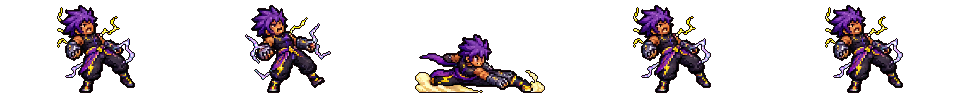
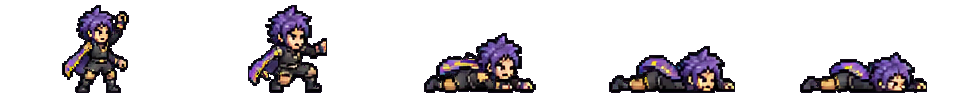
feat(ryne): rework electro striker assets

diff --git a/scripts/assets/rebuild_ryne_character_with_pillow.py b/scripts/assets/rebuild_ryne_character_with_pillow.py
@@ -1,0 +1,242 @@
+#!/usr/bin/env python3
+from __future__ import annotations
+
+import re
+from pathlib import Path
+
+from PIL import Image, ImageChops, ImageFilter
+
+
+ROOT = Path(__file__).resolve().parents[2]
+RYNE_DIR = ROOT / "assets/characters/ryne"
+
+IMAGEGEN_SOURCE = RYNE_DIR / "generated_source/ryne_imagegen_source_chromakey.png"
+CHROMAKEY_SOURCE = RYNE_DIR / "generated_source/ryne_rework_source_chromakey.png"
+ALPHA_SOURCE = RYNE_DIR / "generated_source/ryne_rework_source_alpha_pillow.png"
+PREVIEW = RYNE_DIR / "generated_source/ryne_rework_preview.png"
+WORK_DIR = ROOT / "tmp/asset_generation/ryne_clean/pillow_frames"
+
+SOURCE_SIZE = (1536, 1024)
+FRAME_WIDTH = 192
+FRAME_HEIGHT = 96
+CONTENT_HEIGHT = 92
+OUTLINE = (18, 12, 26, 255)
+
+FRAME_SPECS = {
+    "idle_0": ("72x120+54+20", "x86"),
+    "idle_1": ("74x120+164+19", "x86"),
+    "idle_2": ("75x120+273+20", "x86"),
+    "idle_3": ("75x120+381+20", "x86"),
+    "run_0": ("100x104+39+155", "x86"),
+    "run_1": ("96x104+198+154", "x86"),
+    "run_2": ("104x103+356+155", "x86"),
+    "run_3": ("110x103+498+156", "x86"),
+    "run_4": ("112x103+646+156", "x86"),
+    "run_5": ("122x103+790+156", "x86"),
+    "attack_0": ("67x119+499+20", "x86"),
+    "attack_1": ("122x106+618+33", "x86"),
+    "attack_2": ("122x106+752+33", "x86"),
+    "attack_3": ("133x106+905+33", "x86"),
+    "attack_4": ("104x106+1095+33", "x86"),
+    "attack_5": ("124x106+1275+33", "x86"),
+    "jump_0": ("77x101+60+283", "x86"),
+    "jump_1": ("112x115+230+268", "x86"),
+    "jump_2": ("115x110+397+270", "x86"),
+    "dodge_0": ("156x65+48+414", "128x60>"),
+    "dodge_1": ("151x63+216+415", "128x60>"),
+    "dodge_2": ("127x67+408+411", "128x60>"),
+    "dodge_3": ("137x60+590+418", "128x58>"),
+    "hurt_0": ("90x116+54+496", "x86"),
+    "hurt_1": ("90x110+202+502", "x86"),
+    "throw_0": ("83x113+51+625", "x86"),
+    "throw_1": ("98x108+171+634", "x86"),
+    "throw_2": ("140x109+305+634", "176x82>"),
+    "skill_0": ("88x113+56+755", "x86"),
+    "skill_1": ("86x126+212+753", "x86"),
+    "skill_2": ("172x138+756+748", "184x84>"),
+    "death_0": ("84x112+48+884", "x86"),
+    "death_1": ("81x90+186+906", "x86"),
+    "death_2": ("114x63+312+933", "128x60>"),
+    "death_3": ("128x49+470+947", "128x48>"),
+    "death_4": ("125x39+637+957", "128x40>"),
+}
+
+STRIPS = {
+    "idle": ["idle_0", "idle_1", "idle_2", "idle_3"],
+    "run": ["run_0", "run_1", "run_2", "run_3", "run_4", "run_5"],
+    "attack": ["attack_0", "attack_1", "attack_2", "attack_3", "attack_4", "attack_5"] * 2,
+    "jump": ["jump_0", "jump_1", "jump_2"],
+    "dodge": ["dodge_0", "dodge_1", "dodge_2", "dodge_3"],
+    "hurt": ["hurt_0", "hurt_1"],
+    "throw": ["throw_0", "throw_1", "throw_2", "throw_2", "throw_1", "throw_0", "throw_2", "throw_1"],
+    "skill": ["skill_0", "skill_1", "skill_2", "skill_1"],
+    "death": ["death_0", "death_1", "death_2", "death_3", "death_4"],
+}
+
+
+def parse_box(box: str) -> tuple[int, int, int, int]:
+    match = re.fullmatch(r"(\d+)x(\d+)\+(\d+)\+(\d+)", box)
+    if not match:
+        raise ValueError(f"invalid crop box: {box}")
+    width, height, x, y = map(int, match.groups())
+    return x, y, x + width, y + height
+
+
+def parse_resize(spec: str) -> tuple[int | None, int | None, bool]:
+    limit = spec.endswith(">")
+    if limit:
+        spec = spec[:-1]
+    if spec.startswith("x"):
+        return None, int(spec[1:]), limit
+    if "x" in spec:
+        left, right = spec.split("x", 1)
+        return int(left) if left else None, int(right) if right else None, limit
+    return int(spec), None, limit
+
+
+def resize_to_fit(image: Image.Image, spec: str) -> Image.Image:
+    target_w, target_h, limit = parse_resize(spec)
+    source_w, source_h = image.size
+    if target_w is None and target_h is None:
+        return image
+    if target_w is None:
+        scale = target_h / source_h
+    elif target_h is None:
+        scale = target_w / source_w
+    else:
+        scale = min(target_w / source_w, target_h / source_h)
+    if limit and scale >= 1:
+        return image
+    size = (max(1, round(source_w * scale)), max(1, round(source_h * scale)))
+    return image.resize(size, Image.Resampling.NEAREST)
+
+
+def remove_green_key(image: Image.Image) -> Image.Image:
+    image = image.convert("RGBA")
+    pixels = image.load()
+    for y in range(image.height):
+        for x in range(image.width):
+            r, g, b, a = pixels[x, y]
+            if a == 0:
+                pixels[x, y] = (0, 0, 0, 0)
+                continue
+            if g > 80 and g > r * 1.08 and g > b * 1.08:
+                pixels[x, y] = (0, 0, 0, 0)
+            elif g > r * 1.05 and g > b * 1.05:
+                pixels[x, y] = (r, min(g, int(max(r, b) * 0.72)), b, a)
+    return image
+
+
+def trim(image: Image.Image) -> Image.Image:
+    bbox = image.getchannel("A").getbbox()
+    if bbox is None:
+        return Image.new("RGBA", (1, 1), (0, 0, 0, 0))
+    return image.crop(bbox)
+
+
+def constrain(image: Image.Image) -> Image.Image:
+    width, height = image.size
+    scale = min(184 / width, 88 / height, 1.0)
+    if scale >= 1:
+        return image
+    return image.resize((max(1, round(width * scale)), max(1, round(height * scale))), Image.Resampling.NEAREST)
+
+
+def add_outline(image: Image.Image) -> Image.Image:
+    alpha = image.getchannel("A")
+    dilated = alpha.filter(ImageFilter.MaxFilter(3))
+    outline_alpha = ImageChops.subtract(dilated, alpha)
+    outline = Image.new("RGBA", image.size, OUTLINE)
+    outline.putalpha(outline_alpha)
+    return Image.alpha_composite(outline, image)
+
+
+def clear_transparent_rgb(image: Image.Image) -> Image.Image:
+    image = image.convert("RGBA")
+    pixels = image.load()
+    for y in range(image.height):
+        for x in range(image.width):
+            r, g, b, a = pixels[x, y]
+            if a == 0:
+                pixels[x, y] = (0, 0, 0, 0)
+    return image
+
+
+def load_imagegen_source() -> Image.Image:
+    if not IMAGEGEN_SOURCE.exists():
+        raise FileNotFoundError(
+            f"Missing imagegen base sheet: {IMAGEGEN_SOURCE}. "
+            "Generate Ryne's full chromakey source sheet with $imagegen first."
+        )
+    source = Image.open(IMAGEGEN_SOURCE).convert("RGBA")
+    if source.size != SOURCE_SIZE:
+        source = source.resize(SOURCE_SIZE, Image.Resampling.NEAREST)
+    return source
+
+
+def make_character_frame(source: Image.Image, name: str, crop_box: str, resize_spec: str) -> Path:
+    frame = trim(source.crop(parse_box(crop_box)))
+    frame = resize_to_fit(frame, resize_spec)
+    frame = constrain(frame)
+
+    content = Image.new("RGBA", (FRAME_WIDTH, CONTENT_HEIGHT), (0, 0, 0, 0))
+    x = (FRAME_WIDTH - frame.width) // 2
+    y = CONTENT_HEIGHT - frame.height
+    content.alpha_composite(frame, (x, y))
+
+    canvas = Image.new("RGBA", (FRAME_WIDTH, FRAME_HEIGHT), (0, 0, 0, 0))
+    canvas.alpha_composite(content, (0, 0))
+    canvas = clear_transparent_rgb(add_outline(canvas))
+
+    path = WORK_DIR / f"{name}.png"
+    canvas.save(path)
+    return path
+
+
+def write_strip(output_name: str, frame_paths: list[Path]) -> None:
+    sheet = Image.new("RGBA", (FRAME_WIDTH * len(frame_paths), FRAME_HEIGHT), (0, 0, 0, 0))
+    for index, path in enumerate(frame_paths):
+        sheet.alpha_composite(Image.open(path).convert("RGBA"), (FRAME_WIDTH * index, 0))
+    sheet.save(RYNE_DIR / f"{output_name}.png")
+
+
+def write_preview() -> None:
+    rows = [RYNE_DIR / f"{name}.png" for name in STRIPS]
+    opened_rows = [Image.open(path).convert("RGBA") for path in rows]
+    width = max(row.width for row in opened_rows)
+    height = sum(row.height for row in opened_rows) + 8 * len(opened_rows)
+    preview = Image.new("RGBA", (width, height), (26, 24, 22, 255))
+    y = 0
+    for row in opened_rows:
+        y += 8
+        preview.alpha_composite(row, (0, y))
+        y += row.height
+    preview.save(PREVIEW)
+
+
+def main() -> None:
+    RYNE_DIR.mkdir(parents=True, exist_ok=True)
+    (RYNE_DIR / "generated_source").mkdir(parents=True, exist_ok=True)
+    WORK_DIR.mkdir(parents=True, exist_ok=True)
+    for old_frame in WORK_DIR.glob("*.png"):
+        old_frame.unlink()
+
+    chromakey_source = load_imagegen_source()
+    chromakey_source.convert("RGB").save(CHROMAKEY_SOURCE)
+
+    alpha_source = clear_transparent_rgb(remove_green_key(chromakey_source))
+    alpha_source.save(ALPHA_SOURCE)
+
+    frames = {
+        name: make_character_frame(alpha_source, name, crop_box, resize_spec)
+        for name, (crop_box, resize_spec) in FRAME_SPECS.items()
+    }
+
+    for strip_name, frame_names in STRIPS.items():
+        write_strip(strip_name, [frames[name] for name in frame_names])
+
+    write_preview()
+
+
+if __name__ == "__main__":
+    main()
